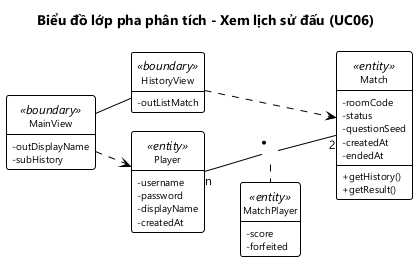
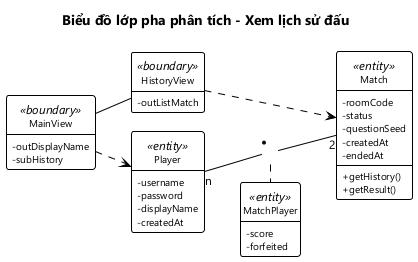
docs: chuyển quy ước, trạng thái và ghi chú khỏi tài liệu sang REPORT_CONVENTION, bỏ ghi chú trong ngoặc ở tiêu đề và chú thích hình

Changed region(s): [[0.0933, 0.0305, 0.9019, 0.1221]]

diff --git a/REPORT_CONVENTION.md b/REPORT_CONVENTION.md
@@ -118,6 +118,8 @@ A1 Kịch bản v1 ─> A2 Lớp thực thể ─┐              D1 Lớp thự
 
 **Không cần** đủ thuộc tính. **Không thêm** `id`. **Không vẽ** View, DAO, Controller.
 
+**Đặt tên:** tên lớp tiếng Anh, PascalCase, trùng tên lớp trong code; tên thuộc tính camelCase.
+
 ### A3. Thiết kế tĩnh phân tích (mỗi chức năng một biểu đồ)
 
 Gồm **lớp View + lớp thực thể liên quan**. Làm theo 4 bước:
@@ -137,6 +139,8 @@ Gồm **lớp View + lớp thực thể liên quan**. Làm theo 4 bước:
       - Nếu không, xét đầu vào: chỉ thuộc một lớp thực thể thì gán vào lớp đó; thuộc nhiều lớp thì gán vào lớp chứa được tất cả đầu vào.
 4. **Vẽ biểu đồ lớp** cho chức năng. Hai lớp View nối nhau bằng **liên kết (association)**.
 
+Pha phân tích chưa có kiểu dữ liệu, chưa có DAO, Controller, Activity, REST.
+
 ### A4. Thiết kế động phân tích: kịch bản v2 + tuần tự
 
 - **Kịch bản v2:** viết lại kịch bản chuẩn v1, mỗi bước là **đúng một thông điệp**. Ví dụ:
@@ -146,6 +150,8 @@ Gồm **lớp View + lớp thực thể liên quan**. Làm theo 4 bước:
   - Chỉ có 3 loại đối tượng: **tác nhân – View – thực thể**.
   - Số thông điệp và thứ tự **giống hệt** kịch bản chuẩn của v2.
 - Kịch bản v2 **vẫn viết ngoại lệ** (đánh số theo bước rẽ nhánh, ví dụ `9a.1`). Ngoại lệ mô tả ở mức chung ("hiển thị thông báo không tìm thấy phòng"), không ghi chi tiết kỹ thuật như `Toast`, `AlertDialog`. Biểu đồ tuần tự **chỉ vẽ kịch bản chuẩn**, không vẽ khung `alt`.
+- Mọi phương thức trên biểu đồ tuần tự phải có ở biểu đồ lớp phân tích.
+- Chức năng dài (Chơi online) chia đoạn như kịch bản v1, mỗi đoạn một biểu đồ, đánh số lại từ 1.
 
 ### D1. Thiết kế lớp thực thể (mục 3 của báo cáo)
 
@@ -191,6 +197,11 @@ Vẽ thành cây như `ISSUES_PLAN.md` mục 2.4.
 **4.x.1 Thiết kế giao diện:**
 - Ảnh từng màn của chức năng: lúc thiết kế dùng phác thảo, khi nộp thay bằng ảnh chụp app thật.
 - Bảng thành phần gồm `id` trong layout (`btnPlayOffline`), loại View (`Button`), chức năng, và tên tương ứng ở bước phân tích (`subPlayOffline`).
+- Thuộc tính của View chuyển sang thành phần Android:
+  - Bỏ tiền tố `in` / `out` / `sub`, thay bằng tiền tố theo loại View: `btn` (`Button`), `edt` (`EditText`), `txt` (`TextView`), `rv` (`RecyclerView`), `layout` (`LinearLayout`).
+  - Nhóm nút cùng loại gom thành mảng, ví dụ `subDigits` → `btnDigits : Button[10]`.
+  - Nút chỉ có biểu tượng dùng `ImageButton`, đặt `contentDescription`.
+  - Thuộc tính ẩn kiểu thực thể giữ dữ liệu dùng giữa các bước, ví dụ `me : Player`.
 
 **4.x.2 Biểu đồ lớp chi tiết** theo MVC, đủ 3 loại lớp:
 
@@ -248,6 +259,7 @@ Chức năng chỉ chạy trên app (Chơi offline, Cài đặt cấu hình game
 - Đủ boundary – control – entity.
 - Đánh số **khớp 1-1** với kịch bản v3.
 - Kịch bản v3 và biểu đồ **chỉ gồm kịch bản chuẩn**, không có ngoại lệ.
+- Đóng gói thực thể con được lược bỏ: khi đóng gói `Match` thì 2 `MatchPlayer`, 2 `Player` bên trong không vẽ thành thông điệp riêng.
 
 **Quy ước riêng:**
 - **REST:** mỗi lời gọi API là **một thông điệp** từ `XxxApiDAO` tới `XxxRestController`, ghi phương thức và đường dẫn (ví dụ `POST /api/matches/{code}/finish`). Kết quả trả về là một thông điệp ngược lại, ghi kiểu dữ liệu (ví dụ `Match`). Phía server tiếp tục như bài mẫu: Controller gọi DAO → DAO đóng gói Entity → trả về.
@@ -288,3 +300,41 @@ Chức năng chỉ chạy trên app (Chơi offline, Cài đặt cấu hình game
 - [ ] Mọi tên lớp, hàm, bảng trong báo cáo đều có trong code ở nhánh `main`.
 - [ ] Mỗi hình có "Hình x" và lời giải thích.
 - [ ] Người còn lại đã đọc lại và góp ý.
+
+---
+
+## 6. Quy ước viết tài liệu trong `docs/`
+
+- **Tài liệu chỉ chứa nội dung báo cáo.** Không ghi quy ước, luật, trạng thái, số issue, người làm / người duyệt vào tiêu đề hay nội dung tài liệu. Những thứ đó ghi ở file này (mục 6, 7).
+- **Tiêu đề và chú thích hình không có ghi chú trong ngoặc.** Viết `## 1. Chức năng "Chơi online"`, không viết `## 1. Chức năng "Chơi online" (UC05)`; viết `*Hình 13: Biểu đồ lớp chi tiết chức năng Chơi online.*`, không thêm `(client + server)` hay `(phác thảo…)`. Tiêu đề trong ảnh PlantUML cũng vậy.
+- **Ngoại lệ trong kịch bản v2** viết ở mức chung: "hiển thị thông báo không vào được phòng", không ghi `Toast`, `AlertDialog`.
+- **Dữ liệu mẫu** dùng chung cho kịch bản v1, v2, v3 của một người (ví dụ của Hùng: HUNG máy 1 tạo phòng, HOANG máy 2 tìm phòng, MINH máy 3 vào khi phòng đã đầy; phòng `482915`; câu đầu `12 + 7`; tỉ số `120 – 96`).
+- **Kịch bản v1** chỉ có Người chơi và Hệ thống, không có tên lớp, tên hàm, thuật ngữ kỹ thuật.
+
+---
+
+## 7. Bảng tài liệu và việc còn lại
+
+| Tài liệu | Bước | Vị trí trong báo cáo | Issue | Người làm / duyệt | Đầu vào |
+|---|---|---|---|---|---|
+| `docs/chung/01-pham-vi-use-case.md` | Phạm vi, UC tổng quát | Mở đầu, cả 2 báo cáo | #22 M1-01 | Hùng / Hoàng | — |
+| `docs/chung/02-lop-thuc-the.md` | A2, D1 | Mục 3, cả 2 báo cáo | #23 M1-02 | Hùng / Hoàng | 01 |
+| `docs/chung/03-csdl.md` | D2 | Mục 2: Hoàng phần SQLite + SharedPreferences, Hùng phần MySQL + Firebase | #24 M1-03 | Hùng / Hoàng | 02 phần B |
+| `docs/hung/1-kich-ban-v1.md` | A1 | Mục 1 | #37 M3-01 | Hùng / Hoàng | 01 |
+| `docs/hung/2-lop-phan-tich.md` | A3 | Phụ lục | #39 M3-03 | Hùng / Hoàng | v1, 02 phần A |
+| `docs/hung/3-kich-ban-v2.md` | A4 | Phụ lục | #41 M3-05 | Hùng / Hoàng | v1, 2-lop-phan-tich |
+| `docs/hung/4-lop-thiet-ke.md` | D3 | Mục 4.x.1, 4.x.2 | #43 M4-01 | Hùng / Hoàng | 2-lop-phan-tich, 02, 03 |
+| `docs/hung/5-kich-ban-v3.md` | D4 | Mục 4.x.3 | #45 M4-03 | Hùng / Hoàng | v2, 4-lop-thiet-ke |
+| `docs/hung/BaoCao_Hung.md` | Bản nháp báo cáo | Toàn bộ | #47 M4-05 | Hùng / Hoàng | Các file trên |
+
+Lớp thực thể theo báo cáo: Hùng (UC05, UC06; thêm UC01, UC02 nếu trình bày) dùng `Player`, `MathProblem`, `GameSession`, `Match`, `MatchPlayer`; Hoàng (UC03, UC04) dùng `Player`, `MathProblem`, `GameSession`, `GameRecord`, `GameConfig`.
+
+Phạm vi ở mức MVP: chỉ giữ các chức năng cần để demo ngày 28/10/2026.
+
+**Trạng thái tài liệu của Hùng:** viết trước khi code, thiết kế dẫn code. Tên lớp, hàm trong `4-lop-thiet-ke.md` là chữ ký code M2-02 → M2-05 phải theo; code buộc phải khác thì sửa tài liệu theo code trước khi nộp.
+
+**Việc còn lại trước khi nộp (Hùng):**
+1. Thay hình phác thảo giao diện bằng ảnh chụp app thật (M2-08).
+2. Đối chiếu tên lớp, hàm, API trong tài liệu với code trên `main`.
+3. Hoàng đọc lại.
+4. Báo cáo cuối viết trên file online riêng, xuất một lần ra `docs/BaoCao_Hung.docx`. Hình trong báo cáo đánh số lại từ 1, khác số hình trong `docs/`.

diff --git a/docs/hung/5-kich-ban-v3.md b/docs/hung/5-kich-ban-v3.md
@@ -1,28 +1,10 @@
 # KỊCH BẢN v3 VÀ BIỂU ĐỒ TUẦN TỰ CHI TIẾT — CHƠI ONLINE, XEM LỊCH SỬ ĐẤU
 
-> Issue: #45 [M4-03] · Người làm: Hùng · Người duyệt: Hoàng
-> Bước D4 trong `REPORT_CONVENTION.md`. Đây là **mục 4.x.3** trong báo cáo của Hùng.
-> Đầu vào: kịch bản v2 (`3-kich-ban-v2.md`), biểu đồ lớp chi tiết (`4-lop-thiet-ke.md`).
-
-> **Trạng thái:** viết trước khi code. Tên lớp và tên hàm theo `4-lop-thiet-ke.md`; lệch với code thật thì sửa tài liệu theo code trước khi nộp.
-
-Quy ước:
-- **Mỗi bước là đúng một thông điệp**, dùng tên lớp và tên hàm thật. Số bước trùng với số trên biểu đồ.
-- Biểu đồ có đủ boundary – control – entity; chức năng gọi server có thêm 2 khung "Client (Android)" và "Server (Spring Boot)".
-- **REST:** mỗi lời gọi API là **một** thông điệp từ `MatchApiDAO` tới `MatchRestController`, ghi phương thức + đường dẫn. Kết quả là một thông điệp trả về, ghi kiểu dữ liệu.
-- **Firebase (bất đồng bộ):**
-  - Lời gọi DAO là một thông điệp.
-  - Kết quả là thông điệp từ callback (`onComplete`, `onDataChange`), ghi tên callback trên mũi tên.
-- **`Thread` + `runOnUiThread`:** ghi chú `{Thread}` / `runOnUiThread` cạnh thông điệp.
-- **`CountDownTimer`:** vẽ như một đối tượng điều khiển, gửi `onTick` / `onFinish`.
-- **Đóng gói thực thể con được lược bỏ cho gọn** (giống bài mẫu). Ví dụ: khi đóng gói `Match` thì 2 `MatchPlayer` và 2 `Player` bên trong cũng được tạo, nhưng không vẽ thành thông điệp riêng.
-- **Chỉ gồm kịch bản chuẩn**, không có ngoại lệ. Ngoại lệ đã mô tả ở kịch bản v1.
-
 ---
 
-## 1. Chức năng "Chơi online" (UC05)
+## 1. Chức năng "Chơi online"
 
-### 1.1. Đoạn A: Tạo phòng (Hùng, máy 1)
+### 1.1. Đoạn A: Tạo phòng
 
 1. Hùng nhấn nút Chơi online trên `MainActivity`.
 2. Phương thức `onClick` của `MainActivity` gọi `startActivity` mở `OnlineActivity`.
@@ -60,7 +42,7 @@ Quy ước:
 - Kết quả bất đồng bộ đi ngược lại qua callback: `onComplete` / `onDataChange` → `onSuccess` → `onRoomReady`.
 - Bước 13 dùng transaction nên 2 người không thể tạo trùng một mã phòng.
 
-### 1.2. Đoạn B: Tìm phòng (Hoàng, máy 2)
+### 1.2. Đoạn B: Tìm phòng
 
 1. Hoàng nhấn nút Chơi online trên `MainActivity`.
 2. `onClick` của `MainActivity` gọi `startActivity` mở `OnlineActivity`.
@@ -96,7 +78,7 @@ Quy ước:
   - Nếu 2 người cùng nhập mã một lúc, Firebase chạy lại transaction cho người đến sau, nên phòng không bao giờ có 3 người.
 - `canJoin` là hàm Java thuần nên kiểm thử được bằng `MatchTest` mà không cần Firebase.
 
-### 1.3. Đoạn C: Thi đấu và kết thúc trận (Hùng, máy 1)
+### 1.3. Đoạn C: Thi đấu và kết thúc trận
 
 1. `onCreate` của `OnlineGameActivity` gọi `startGame(this)` của `MatchController`.
 2. `startGame` gọi `registerDisconnect("482915", 1)` của `MatchFirebaseDAO`: nếu máy 1 mất kết nối, máy chủ Firebase tự ghi `connected = false`, `forfeited = true` cho HUNG.
@@ -180,7 +162,7 @@ Quy ước:
 
 ![Hình 18: Tuần tự thiết kế Chơi online – Thi đấu và kết thúc trận](tuan-tu-thiet-ke-uc05c.png)
 
-*Hình 18: Biểu đồ tuần tự chi tiết chức năng Chơi online, đoạn C: Thi đấu và kết thúc trận (client + server).*
+*Hình 18: Biểu đồ tuần tự chi tiết chức năng Chơi online, đoạn C: Thi đấu và kết thúc trận.*
 
 - Biểu đồ có 77 thông điệp.
 - Ba lớp nghiệp vụ là hàm Java thuần, nằm trong code của nhóm:
@@ -192,7 +174,7 @@ Quy ước:
 
 ---
 
-## 2. Chức năng "Xem lịch sử đấu" (UC06)
+## 2. Chức năng "Xem lịch sử đấu"
 
 1. Hùng nhấn nút Lịch sử đấu trên `MainActivity`.
 2. `onClick` của `MainActivity` gọi `startActivity` mở `HistoryActivity`.
@@ -222,7 +204,7 @@ Quy ước:
 
 ![Hình 19: Tuần tự thiết kế Xem lịch sử đấu](tuan-tu-thiet-ke-uc06.png)
 
-*Hình 19: Biểu đồ tuần tự chi tiết chức năng Xem lịch sử đấu (client + server).*
+*Hình 19: Biểu đồ tuần tự chi tiết chức năng Xem lịch sử đấu.*
 
 - Biểu đồ có 25 thông điệp.
 - **Lời gọi REST** duy nhất là bước 9. Server đi theo khuôn `MatchRestController` → `MatchDAO` → `Match`.

diff --git a/docs/hung/2-lop-phan-tich.md b/docs/hung/2-lop-phan-tich.md
@@ -1,26 +1,8 @@
 # BIỂU ĐỒ LỚP PHA PHÂN TÍCH — CHƠI ONLINE, XEM LỊCH SỬ ĐẤU
 
-> Issue: #39 [M3-03] · Người làm: Hùng · Người duyệt: Hoàng
-> Bước A3 trong `REPORT_CONVENTION.md`. Đầu vào: kịch bản v1 (`1-kich-ban-v1.md`) và biểu đồ lớp thực thể pha phân tích (`docs/chung/02-lop-thuc-the.md`, Hình 2).
-> Trong báo cáo, phần này đặt ở **Phụ lục**.
-
-Mỗi chức năng làm theo 4 bước:
-1. Mỗi giao diện xuất hiện trong kịch bản v1 đề xuất thành một lớp biên `XxxView`. Thông báo và hộp thoại xác nhận không tính là giao diện.
-2. Mỗi thành phần của giao diện thành một thuộc tính, đặt tiền tố theo vai trò:
-   - `in`: nhận dữ liệu vào.
-   - `out`: hiện dữ liệu lên.
-   - `sub`: nút bấm.
-   - Ghép được, ví dụ `outsub` là thành phần vừa hiện dữ liệu vừa bấm được.
-3. Mỗi xử lý hệ thống phải làm, trả lời 4 câu hỏi: tên phương thức, đầu vào, đầu ra, gán cho lớp thực thể nào.
-   - Đầu ra là lớp thực thể nào thì gán vào lớp đó.
-   - Nếu không, xét đầu vào: gán vào lớp nhỏ nhất chứa được nhiều đầu vào nhất.
-4. Vẽ biểu đồ lớp gồm các lớp View và lớp thực thể liên quan. Hai lớp View nối nhau bằng quan hệ liên kết (association). Quan hệ giữa các lớp thực thể giữ đúng như Hình 2.
-
-Pha phân tích chưa có kiểu dữ liệu, chưa có DAO, Controller, Activity, REST.
-
 ---
 
-## 1. Phân tích tĩnh chức năng "Chơi online" (UC05)
+## 1. Phân tích tĩnh chức năng "Chơi online"
 
 ### Bước 1 + 2: Lớp View và thành phần
 
@@ -56,9 +38,9 @@ Không đề xuất lớp View cho:
 
 ![Hình 6: Biểu đồ lớp pha phân tích chức năng Chơi online](lop-phan-tich-uc05.png)
 
-*Hình 6: Biểu đồ lớp pha phân tích chức năng Chơi online (UC05).*
+*Hình 6: Biểu đồ lớp pha phân tích chức năng Chơi online.*
 
-- **5 lớp View** nối nhau bằng quan hệ liên kết (association, đường thẳng không mũi tên) theo luồng màn hình: `MainView` – `OnlineView` – `LobbyView` – `OnlineGameView` – `MatchResultView` – quay về `MainView`.
+- **5 lớp View** nối nhau bằng quan hệ liên kết theo luồng màn hình: `MainView` – `OnlineView` – `LobbyView` – `OnlineGameView` – `MatchResultView` – quay về `MainView`.
 - **Mũi tên nét đứt** từ View tới lớp thực thể cho biết View đó gọi phương thức nào. `OnlineGameView` dùng nhiều thực thể nhất:
   - `MathProblem`: sinh câu hỏi.
   - `GameSession`: chấm điểm.
@@ -72,7 +54,7 @@ Không đề xuất lớp View cho:
 
 ---
 
-## 2. Phân tích tĩnh chức năng "Xem lịch sử đấu" (UC06)
+## 2. Phân tích tĩnh chức năng "Xem lịch sử đấu"
 
 ### Bước 1 + 2: Lớp View và thành phần
 
@@ -94,13 +76,13 @@ Danh sách chỉ để xem, bấm vào một dòng không làm gì. Vì vậy th
 
 ![Hình 7: Biểu đồ lớp pha phân tích chức năng Xem lịch sử đấu](lop-phan-tich-uc06.png)
 
-*Hình 7: Biểu đồ lớp pha phân tích chức năng Xem lịch sử đấu (UC06).*
+*Hình 7: Biểu đồ lớp pha phân tích chức năng Xem lịch sử đấu.*
 
-- Chức năng chỉ có 2 lớp View, nối nhau bằng quan hệ liên kết (association):
+- Chức năng chỉ có 2 lớp View, nối nhau bằng quan hệ liên kết:
   - `MainView` giữ người chơi đang đăng nhập.
   - `HistoryView` gọi `getHistory()` và `getResult()` của `Match`.
 - Tên đối thủ và tỉ số có sẵn trong 2 `MatchPlayer` của mỗi trận (lớp liên kết giữa `Player` và `Match`), nên không cần thêm phương thức nào khác.
-- Kết quả thắng / thua / hòa là thuộc tính dẫn xuất (D9), được tính bằng `getResult()` chứ không lưu.
+- Kết quả thắng / thua / hòa là thuộc tính dẫn xuất, được tính bằng `getResult()` chứ không lưu.
 
 ---
 

diff --git a/docs/hung/3-kich-ban-v2.md b/docs/hung/3-kich-ban-v2.md
@@ -1,21 +1,10 @@
 # KỊCH BẢN v2 VÀ BIỂU ĐỒ TUẦN TỰ PHA PHÂN TÍCH — CHƠI ONLINE, XEM LỊCH SỬ ĐẤU
 
-> Issue: #41 [M3-05] · Người làm: Hùng · Người duyệt: Hoàng
-> Bước A4 trong `REPORT_CONVENTION.md`. Đầu vào: kịch bản v1 (`1-kich-ban-v1.md`), biểu đồ lớp phân tích (`2-lop-phan-tich.md`).
-> Trong báo cáo, phần này đặt ở **Phụ lục**.
-
-Quy ước:
-- Kịch bản v2 viết lại kịch bản chuẩn v1. **Mỗi bước là đúng một thông điệp** giữa Người chơi, lớp View và lớp thực thể.
-- Biểu đồ tuần tự chỉ có 3 loại đối tượng: tác nhân, View (biên), thực thể. Số thứ tự trên mũi tên **trùng với số bước** của kịch bản.
-- Ngoại lệ viết ngay dưới kịch bản chuẩn, đánh số theo bước rẽ nhánh (`9a.1`, `9a.2`…). Biểu đồ tuần tự **chỉ vẽ kịch bản chuẩn**, không vẽ ngoại lệ.
-- Mọi phương thức trên biểu đồ đều có ở biểu đồ lớp phân tích (Hình 6, Hình 7).
-- Chức năng "Chơi online" chia 3 đoạn như kịch bản v1: A. Tạo phòng, B. Tìm phòng, C. Thi đấu. Mỗi đoạn một biểu đồ và đánh số lại từ 1.
-
 ---
 
-## 1. Chức năng "Chơi online" (UC05)
+## 1. Chức năng "Chơi online"
 
-### 1.1. Đoạn A: Tạo phòng (Hùng, máy 1)
+### 1.1. Đoạn A: Tạo phòng
 
 1. Hùng nhấn nút Chơi online trên `MainView`.
 2. `MainView` gọi `OnlineView`.
@@ -46,7 +35,7 @@ Quy ước:
 - `watchMatch()` (bước 9) là lời đăng ký theo dõi: kết quả không trả về ngay mà trả về ở bước 10, khi trận thay đổi.
 - Bước 10 xảy ra khi Hoàng vào phòng ở đoạn B, nên giữa bước 9 và bước 10 có thể là một khoảng chờ.
 
-### 1.2. Đoạn B: Tìm phòng (Hoàng, máy 2)
+### 1.2. Đoạn B: Tìm phòng
 
 1. Hoàng nhấn nút Chơi online trên `MainView`.
 2. `MainView` gọi `OnlineView`.
@@ -59,9 +48,9 @@ Quy ước:
 9. `LobbyView` hiển thị cho Hoàng "Trận đấu bắt đầu!" và đối thủ HUNG.
 10. `LobbyView` gọi `OnlineGameView` (sang đoạn C, diễn ra trên máy 2 giống máy 1).
 
-**Ngoại lệ 7a: không có phòng `482915`, hoặc phòng không cho vào (đã đủ người, trận đã bắt đầu).**
+**Ngoại lệ 7a: Hoàng không vào được phòng `482915`.**
 
-- 7a.1. Lớp `Match` trả về cho `OnlineView`: không vào được.
+- 7a.1. Lớp `Match` trả về cho `OnlineView`: không có phòng `482915`, hoặc phòng đã đủ người, trận đã bắt đầu.
 - 7a.2. `OnlineView` hiển thị cho Hoàng thông báo không vào được phòng (không tìm thấy phòng, hoặc phòng đã đầy).
 
 ![Hình 9: Tuần tự pha phân tích Chơi online – Tìm phòng](tuan-tu-phan-tich-uc05b.png)
@@ -71,7 +60,7 @@ Quy ước:
 - Biểu đồ có 10 thông điệp, khớp với kịch bản chuẩn.
 - Luật vào phòng nằm trong lớp thực thể `Match` (bước 6, thông điệp gọi chính nó), không nằm ở giao diện.
 
-### 1.3. Đoạn C: Thi đấu (Hùng, máy 1)
+### 1.3. Đoạn C: Thi đấu
 
 1. `OnlineGameView` gọi phương thức `watchMatch()` của lớp `Match` để theo dõi điểm đối thủ.
 2. `OnlineGameView` gọi phương thức `generateProblem()` của lớp `MathProblem`, dùng mã đồng bộ câu hỏi của trận và mức 1.
@@ -126,7 +115,7 @@ Quy ước:
 
 ---
 
-## 2. Chức năng "Xem lịch sử đấu" (UC06)
+## 2. Chức năng "Xem lịch sử đấu"
 
 1. Hùng nhấn nút Lịch sử đấu trên `MainView`.
 2. `MainView` gọi `HistoryView`.

diff --git a/docs/chung/02-lop-thuc-the.md b/docs/chung/02-lop-thuc-the.md
@@ -1,14 +1,5 @@
 # LỚP THỰC THỂ TOÀN HỆ THỐNG — MATH DASH 1v1
 
-> Issue: #23 [M1-02] · Người làm: Hùng · Người duyệt: Hoàng
-> Nguồn cho **mục 3 "Thiết kế lớp thực thể"** trong báo cáo của cả 2 người. Mỗi người chỉ lấy các lớp liên quan đến chức năng của mình (bảng ở mục A.8).
->
-> **Quy ước đặt tên:**
-> - Tên lớp tiếng Anh, viết PascalCase, **trùng tên lớp trong code**.
-> - Tên thuộc tính viết camelCase.
-> - Pha phân tích **chưa có kiểu dữ liệu, chưa có `id`, chưa cần đủ thuộc tính**. Biểu đồ chỉ có tên lớp, thuộc tính chính và quan hệ.
-> - Quan hệ "thông tin của A nằm trong B" vẽ là kết tập `A --<> B`, hình thoi đặt ở phía B.
-
 ---
 
 # PHẦN A — PHA PHÂN TÍCH
@@ -113,9 +104,6 @@ Mã nguồn PlantUML: [`lop-thuc-the-phan-tich.puml`](lop-thuc-the-phan-tich.pum
 | `Match` | | | | | ✓ | ✓ |
 | `MatchPlayer` | | | | | ✓ | ✓ |
 
-- **Báo cáo của Hùng** (UC05, UC06; thêm UC01, UC02 nếu trình bày): `Player`, `MathProblem`, `GameSession`, `Match`, `MatchPlayer`.
-- **Báo cáo của Hoàng** (UC03, UC04): `Player`, `MathProblem`, `GameSession`, `GameRecord`, `GameConfig`.
-
 ---
 
 # PHẦN B — PHA THIẾT KẾ
@@ -134,7 +122,7 @@ Không bổ sung `id` cho:
 
 ## B.2. Bước 2: Bổ sung kiểu dữ liệu
 
-Quy ước: chuỗi → `String`; số đếm, điểm, số giây → `int`; mã đồng bộ câu hỏi → `long` (khớp kiểu tham số của `java.util.Random`); thời điểm → `Date`; cờ bật / tắt → `boolean`. Độ khó dùng `int`: 1 = Dễ, 2 = Trung bình, 3 = Khó (cũng chính là mức bắt đầu của ván).
+Kiểu dữ liệu được chọn như sau: chuỗi → `String`; số đếm, điểm, số giây → `int`; mã đồng bộ câu hỏi → `long` (khớp kiểu tham số của `java.util.Random`); thời điểm → `Date`; cờ bật / tắt → `boolean`. Độ khó dùng `int`: 1 = Dễ, 2 = Trung bình, 3 = Khó (cũng chính là mức bắt đầu của ván).
 
 Bổ sung 2 thuộc tính phục vụ thiết kế cho `GameSession`, không có ở pha phân tích:
 - `onlineMode : boolean`: cùng một lớp chấm điểm cho cả 2 chế độ; `true` là trận online, không trừ mạng.

diff --git a/docs/chung/01-pham-vi-use-case.md b/docs/chung/01-pham-vi-use-case.md
@@ -1,9 +1,5 @@
 # PHẠM VI HỆ THỐNG VÀ BIỂU ĐỒ USE CASE TỔNG QUÁT — MATH DASH 1v1
 
-> Issue: #22 [M1-01] · Người làm: Hùng · Người duyệt: Hoàng
-> Tài liệu dùng chung cho cả 2 báo cáo cá nhân. Tên use case (UC) và mã UC ở đây được dùng **nguyên văn** trong code, tài liệu phân tích – thiết kế và báo cáo.
-> Phạm vi ở mức MVP: chỉ giữ các chức năng cần để demo ngày 28/10.
-
 ---
 
 ## 1. Bảng thuật ngữ
